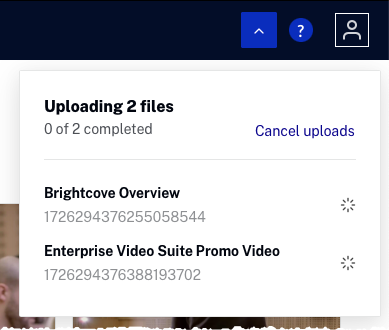
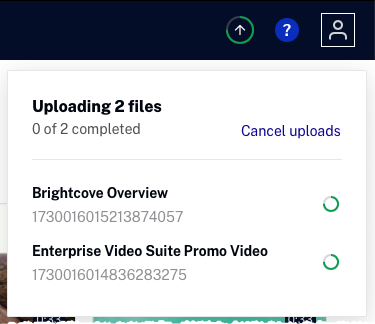
updates

diff --git a/media/uploading-videos.html b/media/uploading-videos.html
@@ -10,18 +10,17 @@ layout: staging
   <section class="bcls-section">
     <p>To upload videos to your account, follow these steps.</p>
     <ol class="bcls-tasklist-restart" style="--s:1">
-      <li>Click <strong>Media</strong> in the primary navigation.</li>
+      <li>In the primary navigation, click <strong>Media</strong>.</li>
       <li>Drag files from the file system to the Media page. The body of the page becomes the drop zone.
         <figure class="bcls-figure"><img class="bcls-image--no-border" alt="" src="/assets/images/media/uploading-videos/drag-drop-videos.png" /></figure>
       </li>
-      <li>Click the upload status indicator in the page header to view the upload progress.
+      <li>Click the  status drawer icon in the page header to view the upload progress.
         <figure class="bcls-figure"><img class="bcls-image--no-border" alt="" src="/assets/images/media/uploading-videos/upload-status.png" /></figure>
       </li>
     </ol>
     <aside class="bcls-aside bcls-aside--information">Note: There is no file size limit. Brightcove has tested with uploads as large as 100GB without any issues.</aside>
-    <p>To cancel the upload, click <strong>Cancel Upload</strong>. Click <strong>Dismiss</strong> to remove the file entry from the page. <strong>While uploads are in an uploading state, do not close or move away from the Media page.</strong> Doing so may cause an incomplete upload.</p>
+    <p>To cancel the uploads, click <strong>Cancel uploads</strong>. <strong>While uploads are in an uploading state, do not close or move away from the Media page.</strong> Doing so may cause an incomplete upload.</p>
     <figure class="bcls-figure"></figure>
-    <p>When the upload is complete, an <strong>Uploaded</strong> status will display. This indicates the video upload  has completed and it is safe to navigate away from the Media page.</p>
-    <p>All uploaded videos will have a status of <strong>Active</strong>. To learn more about video properties, see <a href="/media/editing-video-details.html">Editing Video Details</a>.</p>
+    <p>Other tasks can be performed on the Media page while uploads are in progress. When all uploads are complete, the status drawer will display a green circle <img class="bcls-image--no-border" alt="" src="/assets/images/media/icon-green-status-drawer.png" />. This indicates the video uploads have completed and it is safe to navigate away from the Media page.</p>
   </section>
 </article>

diff --git a/get-started/getting-started-marketing-studio.html b/get-started/getting-started-marketing-studio.html
@@ -30,7 +30,7 @@ layout: staging
   </section>
   <section class="bcls-section">
     <h2 id="status-drawer">Viewing the status drawer</h2>
-    <p>The Marketing Studio header will display a status drawer icon <img alt="" src="/assets/images/get-started/icon-status-drawer.png" /> that shows the status of video uploads. The circle around the icon will turn green as videos are uploaded and processed. Click the icon to display the video progress. </p>
+    <p>The Marketing Studio header will display a status drawer icon <img alt="" src="/assets/images/get-started/icon-status-drawer.png" /> that shows the status of video uploads. The circle around the icon will turn green as videos are uploaded and processed. Click the icon to display the upload progress. </p>
   </section>
   <section class="bcls-section">
     <h2 id="notification">Viewing system notifications</h2>
